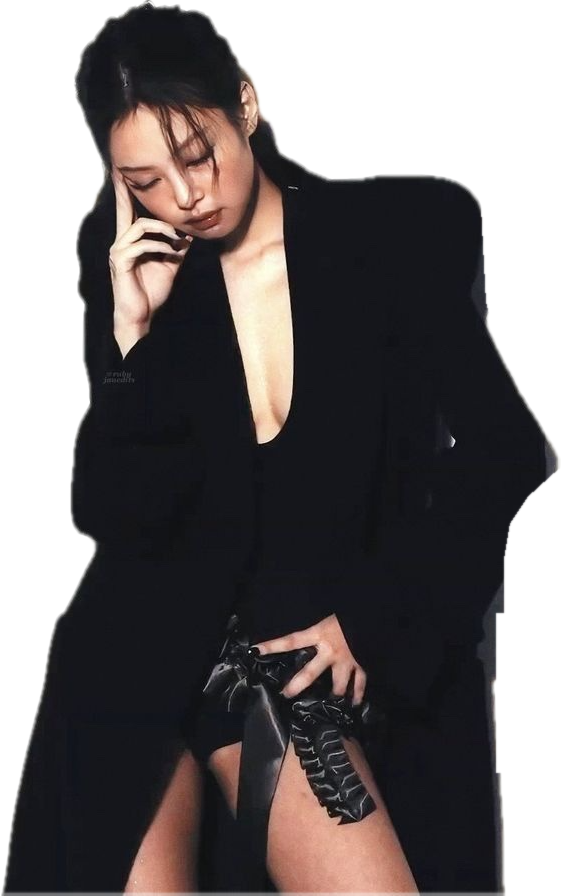
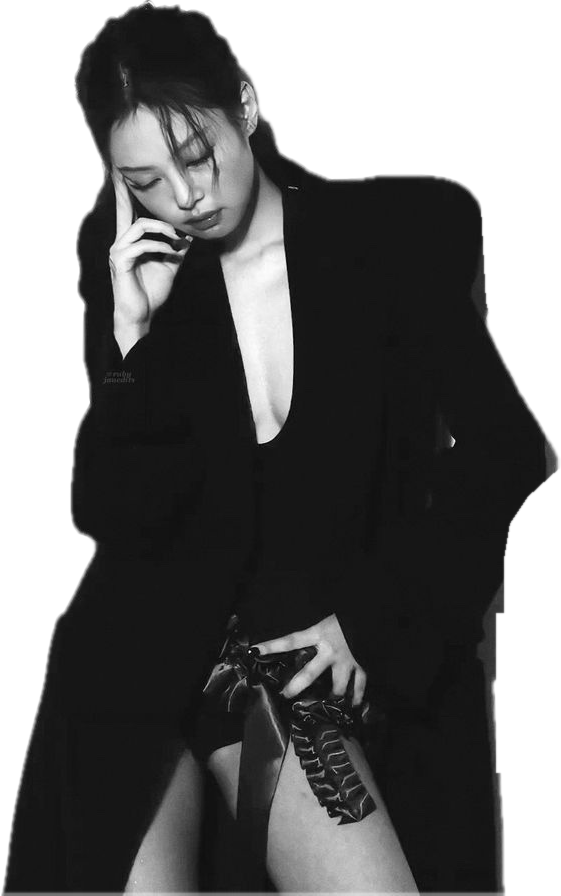
feat(frontend): vuelve al título Idol centrado con tres figuras en blanco y negro separadas en el Lookbook

diff --git a/frontend/src/components/home/PosterLookbook.jsx b/frontend/src/components/home/PosterLookbook.jsx
@@ -18,21 +18,21 @@ const FIGURES = [
   {
     src: sessionBlazer,
     alt: "Jennie con un blazer negro oversize y un top blanco",
-    box: "hidden md:block md:bottom-[0%] md:left-[41%] md:h-[70%]",
+    box: "hidden md:block md:bottom-[0%] md:left-[37%] md:h-[60%]",
     depth: 8,
     z: 8,
   },
   {
     src: sessionSuit,
     alt: "Jennie de pie con traje de rayas, mirando hacia arriba",
-    box: "bottom-[-3%] left-[0%] h-[56%] md:left-[12%] md:h-[72%]",
+    box: "bottom-[-3%] left-[0%] h-[56%] md:left-[4%] md:h-[62%]",
     depth: 20,
     z: 20,
   },
   {
     src: sessionCoat,
     alt: "Jennie con un abrigo negro largo, mirando hacia abajo",
-    box: "bottom-[-4%] left-[40%] h-[50%] md:left-[70%] md:h-[74%]",
+    box: "bottom-[-4%] left-[40%] h-[50%] md:left-[69%] md:h-[64%]",
     depth: 30,
     z: 30,
   },
@@ -112,20 +112,18 @@ function PosterLookbook() {
       {/* Resplandor rojo de fondo. */}
       <div className="absolute inset-0 bg-[radial-gradient(ellipse_at_50%_35%,rgba(214,0,28,0.28),transparent_62%)]" />
 
-      {/* Título en dos líneas, alineado a la izquierda y detrás de las figuras, como en el póster. */}
+      {/* Palabra gigante, atrás de todo. */}
       <Layer
         pointerX={pointerX}
         pointerY={pointerY}
         depth={-6}
-        className="pointer-events-none absolute left-[3%] top-[16%] z-10 md:top-[9%]"
+        className="pointer-events-none absolute inset-x-0 top-[22%] z-10 text-center md:top-[10%]"
       >
         <p
           aria-hidden="true"
-          className="select-none font-heavy text-[min(24vw,30vh)] font-extrabold leading-[0.82] tracking-[-0.05em] text-[#f2f2f2]"
+          className="select-none font-heavy text-[min(42vw,50vh)] font-extrabold leading-[0.85] tracking-[-0.05em] text-[#f2f2f2]"
         >
-          idol
-          <br />
-          <span className="uppercase tracking-[-0.04em]">Jennie</span>
+          Idol
         </p>
       </Layer>
 
@@ -136,7 +134,7 @@ function PosterLookbook() {
           aria-hidden="true"
           className="absolute -left-[6%] top-[12%] w-[112%] origin-center select-none whitespace-nowrap text-center font-heavy text-[min(40vw,52vh)] font-extrabold uppercase leading-none tracking-[-0.03em] text-white/90 [transform:rotateX(66deg)_rotateZ(-9deg)]"
         >
-          Ruby
+          Jennie
         </p>
       </div>
 
@@ -163,7 +161,7 @@ function PosterLookbook() {
       {/* Textos pequeños de los costados. */}
       <div
         aria-hidden="true"
-        className="absolute left-[40%] right-[12%] top-[88px] z-40 hidden items-center gap-4 md:flex"
+        className="absolute left-[34%] right-[12%] top-[88px] z-40 hidden items-center gap-4 md:flex"
       >
         <span className="font-display text-[11px] tracking-[0.3em] text-white/70">
           2026
@@ -171,7 +169,7 @@ function PosterLookbook() {
         <span className="h-px flex-1 bg-white/35" />
       </div>
 
-      <div className="absolute bottom-16 left-6 z-40 max-w-[12.5rem] sm:left-10 md:bottom-auto md:left-[40%] md:top-[150px] md:max-w-[17rem]">
+      <div className="absolute left-6 top-28 z-40 max-w-[12.5rem] sm:left-10 lg:top-36">
         <p className="font-display text-[11px] uppercase tracking-[0.3em] text-white/60">
           Lookbook · 2026
         </p>

diff --git a/frontend/scripts/clean-cutouts.py b/frontend/scripts/clean-cutouts.py
@@ -55,7 +55,7 @@ ERODE = {
 }
 
 # fotos a color que se pasan a blanco y negro para igualar el resto de la sesión
-GRAYSCALE = {"session-blazer"}
+GRAYSCALE = {"session-blazer", "session-coat"}
 
 for name, polygons in ERASE.items():
     path = CUTOUTS / f"{name}.png"

diff --git a/docs/manual-programador.md b/docs/manual-programador.md
@@ -180,7 +180,7 @@ Todo el movimiento respeta `prefers-reduced-motion: reduce` (CSS en `index.css`,
 | Marco y barra del navegador | `BrandFrame.jsx`, `utils/brandTheme.js` | Borde fijo de 5 px (solo desde 768 px, sin capturar clics) con un brillo que se desliza; y `<meta name="theme-color">` actualizada por ruta. El color es rojo ruby (`#D6001C`) o el de la colección en `/colecciones/:slug`. |
 | Detalle de producto | `ProductDetail.jsx`, `ImageLightbox.jsx`, `VariantSelector.jsx` | Cuadrícula `1fr 26rem`: galería de una foto a la vez, siempre completa (`object-contain`): en escritorio las fotos se apilan con fundido y el mouse elige la activa según su posición horizontal (`handleStageMove`; vuelve a la primera al salir); en móvil es una tira con `scroll-snap` de una foto por pantalla cuyo índice sigue al deslizamiento. Sin avance automático. Puntos clicables abajo a la derecha y columna de compra negra (`#0d0d0d`) con talla, cantidad y botón rojo. `ImageLightbox` es el visor (portal, teclado ← → Esc). Las tallas sin existencias para el color elegido salen tachadas y deshabilitadas; arranca en la primera variante con stock. |
 | Hero | `JennieHero.jsx` | Titular condensado (Antonio) y foto en blanco y negro enmarcada; la foto se limita al alto de la ventana. |
-| Lookbook tipo póster | `PosterLookbook.jsx`, `assets/cutouts/*.webp` | Sección de pantalla completa (`h-screen`) en capas, de atrás hacia delante: resplandor rojo, **RUBY** enorme en el suelo (perspectiva con `rotateX` y `rotateZ`, cortada por los bordes), título en dos líneas alineado a la izquierda (**«idol»** en minúsculas y **«JENNIE»** en mayúsculas, Poppins 800 blanco `#f2f2f2`, interletrado negativo) y tres figuras recortadas en blanco y negro separadas en tres zonas (traje, blazer y abrigo). Cada capa usa el componente `Layer`: entra subiendo y se desplaza con el mouse a distinta velocidad (`depth`). El bloque de texto y el botón «Ver tienda» van en la zona libre a la derecha del título. |
+| Lookbook tipo póster | `PosterLookbook.jsx`, `assets/cutouts/*.webp` | Sección de pantalla completa (`h-screen`) en capas, de atrás hacia delante: resplandor rojo, **JENNIE** enorme en el suelo (perspectiva con `rotateX` y `rotateZ`, cortada por los bordes), **«Idol»** centrado en Poppins 800 blanco (`#f2f2f2`, interletrado -0.05em) y tres figuras recortadas en blanco y negro (traje, blazer y abrigo) separadas en tres zonas para dejar ver el título. Cada capa usa el componente `Layer`: entra subiendo y se desplaza con el mouse a distinta velocidad (`depth`). A los lados, el texto con el botón «Ver tienda» y «Wanna rock with this?». |
 | Tarjetas de colecciones | `CollectionCards.jsx`, `data/collections.js` | Una tarjeta 4:5 por colección con su foto (`bannerImage` o `image`, con `bannerPosition`/`imagePosition`); tres lado a lado desde `md` y tira con `scroll-snap` en móvil. Al hover, zoom y sube la frase con el botón (solo con `hover: hover`). |
 | Tienda con pestañas | `ShopTabs.jsx` | Pestañas Todo y una por categoría con 4 productos (`ProductCard`). Carga categorías y catálogo una vez y filtra en el cliente; «Todo» muestra un producto de cada categoría. «Ver todo» enlaza a `/catalogo?categoria=…`. |
 | FAQs (3 preguntas) | `FaqSection.jsx`, `data/faqs.js` | Acordeón accesible (`aria-expanded`), animación de altura con `grid-template-rows`. |

diff --git a/docs/manual-usuario.md b/docs/manual-usuario.md
@@ -17,7 +17,7 @@ Al entrar verás, de arriba abajo:
 1. **Encabezado:** el logo **Ruby.** al centro con los íconos de **Spotify**, **Instagram** y **YouTube** debajo; las secciones (**Tienda**, **Ropa**, **Abrigos**, **Accesorios**, **Música**) repartidas a ambos lados; y a la derecha tres íconos: lupa (buscar), persona (cuenta) y bolsa (carrito). Al bajar por la página, el encabezado se hace más pequeño y no se pierde de vista.
 2. **Portada:** el titular **«Wanna rock with this?»**, una foto de Jennie y los botones **Ver tienda** y **Colecciones**.
 3. **Colecciones:** tres tarjetas con su foto, una por colección: **Fallen Angel** (lila), **JENNIE x Haribo** (amarillo) y **JENNIE x Ruby** (negro y rojo). Al pasar el mouse sobre una tarjeta aparecen su frase y el botón **Ver colección**. En el celular se deslizan de lado.
-4. **Lookbook:** una sección de pantalla completa con el título **idol / JENNIE** en letras blancas enormes, tres fotos recortadas en blanco y negro bien separadas entre sí, un texto breve con el botón «Ver tienda» y **RUBY** en el suelo; al mover el mouse, las fotos se desplazan un poco para dar profundidad.
+4. **Lookbook:** una sección de pantalla completa con la palabra **Idol** en letras blancas enormes, tres fotos recortadas en blanco y negro con espacio entre ellas, un texto breve con el botón «Ver tienda» y **JENNIE** en el suelo; al mover el mouse, las fotos se desplazan un poco para dar profundidad.
 5. **Elige lo tuyo:** una mini tienda con pestañas (**Todo**, **Ropa**, **Abrigos**, **Accesorios** y **Música**) que muestra cuatro productos de la categoría elegida sin salir de la página. **Ver todo** abre el catálogo ya filtrado.
 6. **Preguntas frecuentes (FAQs):** las tres preguntas esenciales; pulsa una para ver la respuesta.
 7. **Pie de página:** al llegar al final de la página de inicio aparece poco a poco, con la marca en grande y tres columnas de enlaces: **Colecciones**, **Cuenta** (catálogo, mi cuenta, carrito y acceso de administrador) y **Sígueme** (redes). En el resto de las páginas (catálogo, colecciones y productos) el pie es una franja delgada con la marca, los enlaces principales y las redes.
